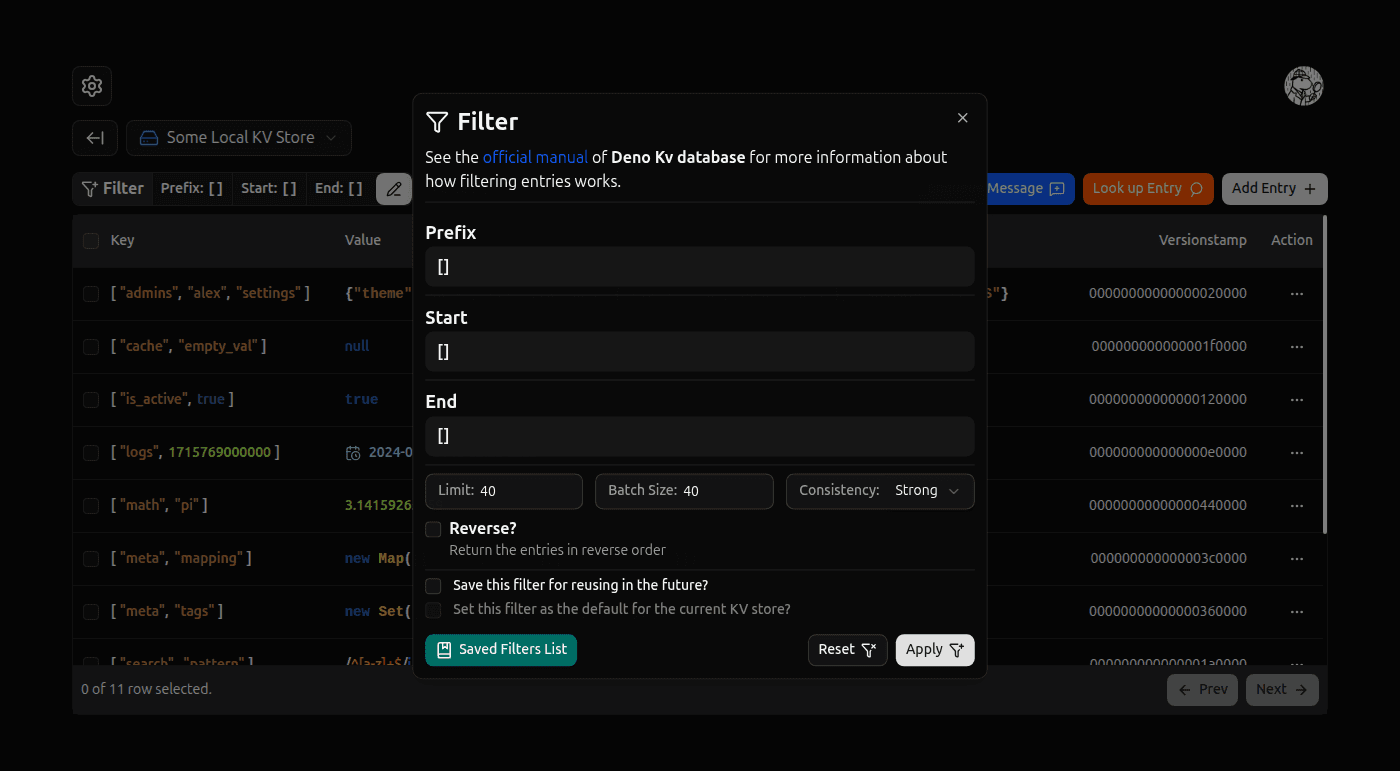
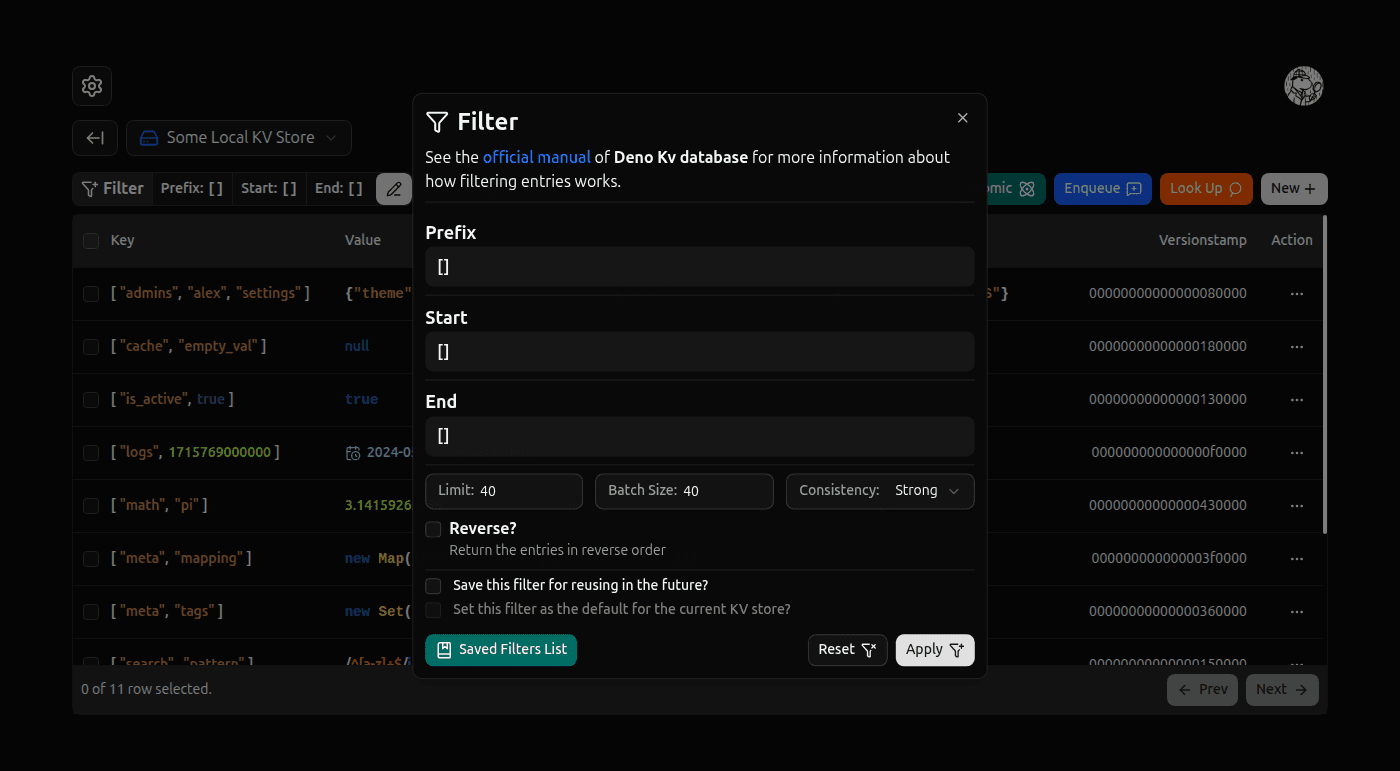
chore: update `takeScreenshots.ts` to take some atomic operations screenshots

diff --git a/scripts/takeScreenshots.ts b/scripts/takeScreenshots.ts
@@ -85,7 +85,7 @@ try {
     for (const file of readdirSync("./screenshots")) {
         if (file.endsWith(".temp.png")) {
             await sharp("./screenshots/" + file)
-                .png({ quality: 70 })
+                .png({ quality: 75 })
                 .toFile("./screenshots/" + file.replace(".temp", ""));
 
             rmSync("./screenshots/" + file)
@@ -107,6 +107,7 @@ async function takeScreenshots(page: Page, mode: Mode) {
         takeScreenshotOfBrowsingParamsDialog,
         takeScreenshotOfSavedBrowsingParamsDialog,
         takeScreenshotOfEnqueueMessageDialog,
+        takeScreenshotOfAtomicOperationsDialog,
     ]
 
     for (const step of steps) {
@@ -175,7 +176,7 @@ async function takeScreenshotOfEditKvEntryDialog(page: Page, mode: Mode) {
 }
 
 async function takeScreenshotOfAddKvEntryForm(page: Page, mode: Mode) {
-    await page.locator('button', { hasText: "Add Entry" }).click();
+    await page.locator('button', { hasText: "New" }).click();
     await page.waitForTimeout(100);
     await page.locator('button', { has: page.locator("svg.lucide-chevron-down"), hasText: "Undefined" }).click();
     await page.waitForTimeout(100);
@@ -185,7 +186,7 @@ async function takeScreenshotOfAddKvEntryForm(page: Page, mode: Mode) {
 }
 
 async function takeScreenshotOfLookupEntryDialog(page: Page, mode: Mode) {
-    await page.locator('button', { hasText: "Look up Entry" }).click();
+    await page.locator('button', { hasText: "Look Up" }).click();
     await page.waitForTimeout(100);
     await page.screenshot({ path: `./screenshots/LookupEntryDialog_${mode}.temp.png`, fullPage: true });
     await page.keyboard.press('Escape');
@@ -230,7 +231,7 @@ async function takeScreenshotOfSavedBrowsingParamsDialog(page: Page, mode: Mode)
 }
 
 async function takeScreenshotOfEnqueueMessageDialog(page: Page, mode: Mode) {
-    await page.locator('button', { hasText: "Enqueue Message" }).click();
+    await page.locator('button', { hasText: "Enqueue" }).click();
     await page.waitForTimeout(100);
     const valueEditor = page.locator('div#value-editor')
     await valueEditor.fill('{task: "delete-files-task", files: ["file-id-1", "file-id-2", "file-id-3"]}')
@@ -264,5 +265,62 @@ async function takeScreenshotOfEnqueueMessageDialog(page: Page, mode: Mode) {
 
     await page.waitForTimeout(125);
     await page.screenshot({ path: `./screenshots/EnqueueMessageDialog_${mode}.temp.png`, fullPage: true });
+    await page.keyboard.press('Escape');
+}
+
+async function takeScreenshotOfAtomicOperationsDialog(page: Page, mode: Mode) {
+    await page.locator('button', { hasText: "Atomic" }).click();
+    await page.waitForTimeout(100);
+
+    // Add check operation
+    await page.locator('button', { hasText: "check" }).click();
+    const checkKeyEditor = page.locator('div#check-key-editor');
+    await checkKeyEditor.fill('["users", "abdulrhman"]');
+    await checkKeyEditor.press('Space');
+    await page.waitForTimeout(100);
+    await page.screenshot({ path: `./screenshots/CheckAtomicOperation_${mode}.temp.png`, fullPage: true });
+    await page.locator('button', { hasText: "Add Check" }).click();
+
+    // Add set operation
+    await page.locator('button', { hasText: /^set/ }).click();
+    await page.locator('button', { has: page.locator("svg.lucide-chevron-down"), hasText: "Undefined" }).click();
+    await page.locator('div[data-slot="select-item"]', { hasText: "Object" }).click();
+    const setKeyEditor = page.locator('div#key-editor');
+    await setKeyEditor.fill('["users", "abdulrhman"]');
+    await setKeyEditor.press('Space');
+    const setValueEditor = page.locator('div#value-editor');
+    await setValueEditor.fill('{name: "abdulrhman", title: "IM", rating: 2525}');
+    await setValueEditor.press('Space');
+    await page.waitForTimeout(100)
+    await page.locator('button', { hasText: "Add Set Operation" }).click();
+
+    // Add sum operation
+    await page.locator('button', { hasText: "sum" }).click();
+    const sumKeyEditor = page.locator('div#sum-key-editor');
+    await sumKeyEditor.fill('["users", "International Masters"]');
+    await sumKeyEditor.press('Space');
+    await page.locator('input#sum-value-input').fill('1');
+    await page.waitForTimeout(75);
+    await page.screenshot({ path: `./screenshots/SumAtomicOperation_${mode}.temp.png`, fullPage: true });
+    await page.locator('button', { hasText: "Add Sum" }).click();
+
+    // Add enqueue operation
+    await page.locator('button', { hasText: /^enqueue/ }).click();
+    const enqueueValueEditor = page.locator('div#value-editor');
+    await enqueueValueEditor.fill('{task: "register-fide-rating", value: {user: "abdulrhman", rating: 2525}}');
+    await enqueueValueEditor.press('Space');
+    await page.waitForTimeout(100)
+    await page.locator('button', { hasText: "Add Enqueue Operation" }).click();
+
+    // Add delete operation
+    await page.locator('button', { hasText: "delete" }).click();
+    const deleteKeyEditor = page.locator('div#delete-key-editor');
+    await deleteKeyEditor.fill('["users", "legacy", true]');
+    await deleteKeyEditor.press('Space');
+    await page.waitForTimeout(100)
+    await page.locator('button', { hasText: "Add Delete Operation" }).click();
+
+    await page.waitForTimeout(150)
+    await page.screenshot({ path: `./screenshots/AtomicOperationsDialog_${mode}.temp.png`, fullPage: true });
     await page.keyboard.press('Escape');
 }

diff --git a/screenshots/SCREENSHOTS.md b/screenshots/SCREENSHOTS.md
@@ -46,6 +46,18 @@ Here are some screenshots of how `Denokv GUI Client` app looks like:
 ![Enqueue Message Keys If Undelivered Option screenshot (Dark)](./EnqueueMessageKeysIfUndeliveredOption_dark.png#gh-dark-mode-only)
 ![Enqueue Message Keys If Undelivered Option screenshot (Light)](./EnqueueMessageKeysIfUndeliveredOption_light.png#gh-light-mode-only)
 
+### Atomic Operations Dialog
+![Atomic Operations Dialog screenshot (Dark)](./AtomicOperationsDialog_dark.png#gh-dark-mode-only)
+![Atomic Operations Dialog screenshot (Light)](./AtomicOperationsDialog_light.png#gh-light-mode-only)
+
+### Check Atomic Operation
+![Check Atomic Operation screenshot (Dark)](./CheckAtomicOperation_dark.png#gh-dark-mode-only)
+![Check Atomic Operation screenshot (Light)](./CheckAtomicOperation_light.png#gh-light-mode-only)
+
+### Sum Atomic Operation
+![Sum Atomic Operation screenshot (Dark)](./SumAtomicOperation_dark.png#gh-dark-mode-only)
+![Sum Atomic Operation screenshot (Light)](./SumAtomicOperation_light.png#gh-light-mode-only)
+
 ### Settings Page
 ![Settings Page screenshot (Dark)](./SettingsPage_dark.png#gh-dark-mode-only)
 ![Settings Page screenshot (Light)](./SettingsPage_light.png#gh-light-mode-only)
